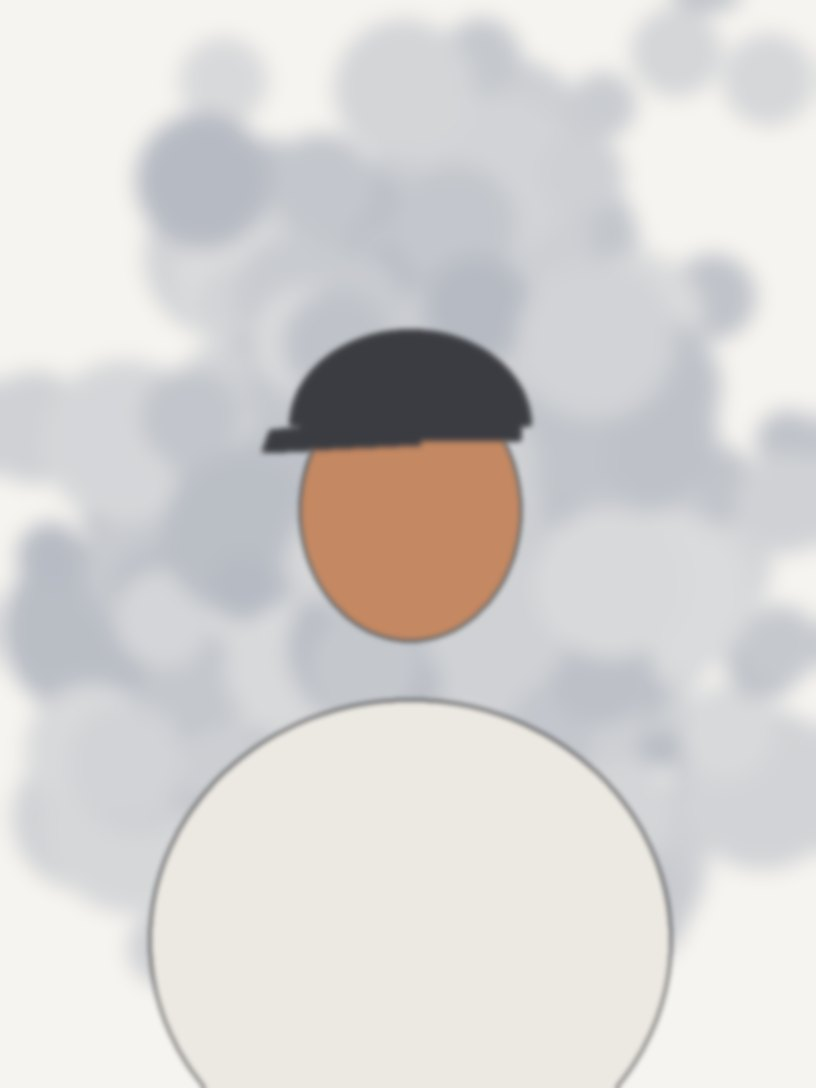
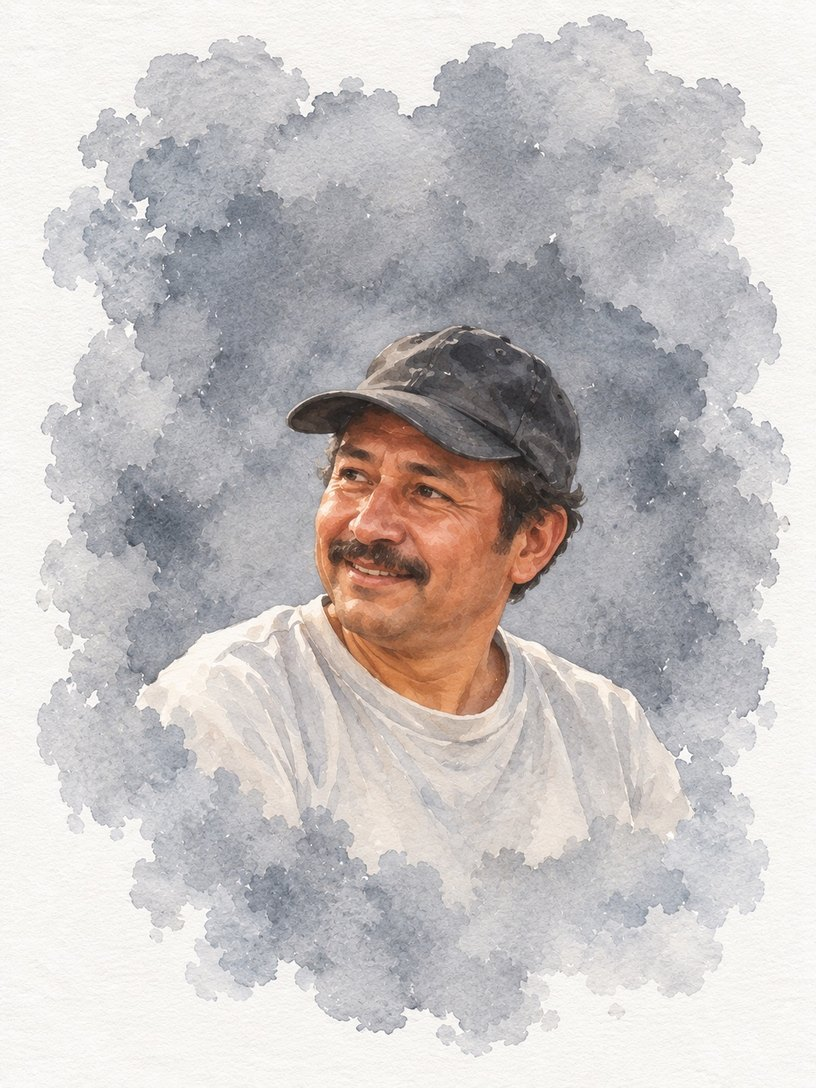
Papá o la Papa: real Dad portrait, subject/background painting, font picker
- Replace the stand-in with the real Dad watercolor portrait
- Paint background and subject separately: the background washes in
  quickly from a paler, shifted hue that settles into the final colours;
  the subject (traced soft masks for all three images) blooms in slower
- Subtler, faster washes; blurrier image edges by default
- Smaller, neutral grey progress blobs
- Font picker in the Adjust panel with ten handwriting faces plus Ugly
  Duck when installed; font-options.png compares them

Claude-Session: https://claude.ai/code/session_01GATDcCAs79GFnzRRRwYMir

diff --git a/papa/index.html b/papa/index.html
@@ -2,7 +2,7 @@
 <title>Papá o la Papa</title>
 <link rel="preconnect" href="https://fonts.googleapis.com">
 <link rel="preconnect" href="https://fonts.gstatic.com" crossorigin>
-<link rel="stylesheet" href="https://fonts.googleapis.com/css2?family=Kalam:wght@400;700&display=swap">
+<link rel="stylesheet" href="https://fonts.googleapis.com/css2?family=Kalam:wght@400;700&family=Gochi+Hand&family=Caveat+Brush&family=Gaegu:wght@400;700&family=Patrick+Hand&family=Short+Stack&family=Grandstander:wght@400;700&family=Gamja+Flower&family=Darumadrop+One&family=Sniglet:wght@400;800&display=swap">
 <style>
   @font-face {
     font-family: "Ugly Duck";
@@ -19,8 +19,8 @@
     --surround: #e9e4de;       /* around the phone on wide screens */
     --ink: #2b1a10;            /* hand-drawn strokes, title */
     --ink-soft: #7a6c61;       /* captions */
-    --seg: #dcd8d3;            /* progress blob, upcoming */
-    --seg-now: #9b958f;        /* progress blob, current */
+    --seg: #dadada;            /* progress blob, upcoming */
+    --seg-now: #8c8c8c;        /* progress blob, current */
     --wash: #d9d9d9;           /* empty frame placeholder */
     --mic-fill: #6d97a7;       /* mic capsule */
     --pad: rgb(176 210 234 / 0.5);   /* voice pad: a light blue wash */
@@ -31,7 +31,10 @@
     --panel-ink: #3a2c22;
     --focus: #2b1a10;
 
-    --hand: "Ugly Duck", "Kalam", "Bradley Hand", "Segoe Print", "Comic Sans MS", cursive;
+    --hand-family: "Kalam";
+    --hand-bold: 700;
+    --hand-scale: 1;
+    --hand: var(--hand-family), "Kalam", "Bradley Hand", "Segoe Print", "Comic Sans MS", cursive;
     --ui: ui-sans-serif, -apple-system, BlinkMacSystemFont, "Segoe UI", system-ui, sans-serif;
 
     --ease-out: cubic-bezier(0.23, 1, 0.32, 1);
@@ -109,10 +112,10 @@
 
   .progress {
     position: absolute;
-    left: calc(90 * var(--u));
-    top: calc(80 * var(--u));
-    width: calc(290 * var(--u));
-    height: calc(17 * var(--u));
+    left: calc(96 * var(--u));
+    top: calc(83 * var(--u));
+    width: calc(280 * var(--u));
+    height: calc(12 * var(--u));
     display: flex;
     justify-content: space-between;
     align-items: center;
@@ -134,8 +137,8 @@
     margin: 0;
     text-align: center;
     font-family: var(--hand);
-    font-weight: 700;
-    font-size: calc(30 * var(--u));
+    font-weight: var(--hand-bold);
+    font-size: calc(30 * var(--hand-scale) * var(--u));
     line-height: 1.2;
     color: var(--ink);
     z-index: 3;
@@ -403,6 +406,25 @@
   .file-btn { display: inline-flex; align-items: center; gap: 6px; width: max-content; }
   .file-btn input { position: absolute; opacity: 0; width: 1px; height: 1px; pointer-events: none; }
   .note { margin: 0; color: var(--ink-soft); font-size: 12px; }
+  .fonts { display: grid; grid-template-columns: repeat(2, minmax(0, 1fr)); gap: 6px; }
+  .fonts button {
+    display: grid;
+    gap: 2px;
+    justify-items: start;
+    text-align: left;
+    padding: 8px 10px;
+    border: 1px solid var(--panel-line);
+    border-radius: 10px;
+    background: transparent;
+    color: var(--ink);
+    cursor: pointer;
+    min-width: 0;
+  }
+  .fonts button[aria-pressed="true"] { border-color: var(--ink); box-shadow: inset 0 0 0 1px var(--ink); }
+  .fonts button:disabled { opacity: 0.45; cursor: not-allowed; }
+  .fonts button:focus-visible { outline: 2px solid var(--focus); outline-offset: 2px; }
+  .fonts .sample { font-size: 26px; line-height: 1.15; color: var(--ink); }
+  .fonts .name { font: 500 11px/1.2 var(--ui); color: var(--ink-soft); overflow-wrap: anywhere; }
 
   @media (prefers-reduced-motion: reduce) {
     .voice, .mic, .waves, .dots, .panel { transition-duration: 1ms !important; }
@@ -506,6 +528,12 @@
   </section>
 
   <section class="group">
+    <h3>Font</h3>
+    <div class="fonts" id="fonts"></div>
+    <p class="note" id="fontNote">Tap one to try it on the screen.</p>
+  </section>
+
+  <section class="group">
     <h3>Paper</h3>
     <div class="row"><label for="toothSize">Tooth size</label><output for="toothSize"></output><input id="toothSize" type="range" min="0.5" max="2" step="0.01" value="1"></div>
     <div class="row"><label for="toothDepth">Tooth depth</label><output for="toothDepth"></output><input id="toothDepth" type="range" min="0" max="1" step="0.01" value="0.4"></div>
@@ -514,11 +542,11 @@
 
   <section class="group">
     <h3>Image</h3>
-    <div class="row"><label for="edgeFade">Edge fade</label><output for="edgeFade"></output><input id="edgeFade" type="range" min="0" max="0.35" step="0.005" value="0.16"></div>
-    <div class="row"><label for="edgeBlur">Edge blur</label><output for="edgeBlur"></output><input id="edgeBlur" type="range" min="0" max="1" step="0.01" value="0.75"></div>
+    <div class="row"><label for="edgeFade">Edge fade</label><output for="edgeFade"></output><input id="edgeFade" type="range" min="0" max="0.35" step="0.005" value="0.21"></div>
+    <div class="row"><label for="edgeBlur">Edge blur</label><output for="edgeBlur"></output><input id="edgeBlur" type="range" min="0" max="1" step="0.01" value="0.95"></div>
     <div class="row"><label for="softness">Overall softness</label><output for="softness"></output><input id="softness" type="range" min="0" max="1" step="0.01" value="0.15"></div>
-    <div class="row"><label for="wetEdges">Wet edges</label><output for="wetEdges"></output><input id="wetEdges" type="range" min="0" max="1" step="0.01" value="0.6"></div>
-    <div class="row"><label for="paintTime">Painting time</label><output for="paintTime"></output><input id="paintTime" type="range" min="1" max="7" step="0.1" value="3.6"></div>
+    <div class="row"><label for="wetEdges">Wet edges</label><output for="wetEdges"></output><input id="wetEdges" type="range" min="0" max="1" step="0.01" value="0.35"></div>
+    <div class="row"><label for="paintTime">Painting time</label><output for="paintTime"></output><input id="paintTime" type="range" min="1" max="7" step="0.1" value="3"></div>
   </section>
 
   <section class="group">
@@ -542,7 +570,7 @@
   const reduceMotion = matchMedia("(prefers-reduced-motion: reduce)").matches;
 
   /* ---------------- Settings (remembered per browser) ---------------- */
-  const KEY = "papa-settings-v2";
+  const KEY = "papa-settings-v3";
   const ids = ["toothSize", "toothDepth", "warmth", "edgeFade", "edgeBlur", "softness", "wetEdges", "paintTime"];
   let saved = {};
   try { saved = JSON.parse(localStorage.getItem(KEY) || "{}"); } catch (e) {}
@@ -589,11 +617,12 @@
   }
 
   /* ---------------- Watercolor painter (WebGL) ----------------
-     Each image is painted in four washes, light to dark, the way a
-     watercolorist works: a pale wash of the overall colour, a stronger
-     wash, the mid-tones, then the darks and detail. Every wash spreads
-     from its own spot with an irregular wet front, and pigment pools
-     along that front as it dries. */
+     The background and the subject are painted as separate passes, the
+     way a watercolorist leaves the figure white and washes around it.
+     Background: three quick washes spreading from the middle, starting in
+     a paler, shifted hue that settles into the picture's own colours.
+     Subject: three slower washes that bloom in patch by patch inside a
+     soft outline of the figure (assets/*-mask.png). */
   const canvas = $("#paint");
   const gl = canvas.getContext("webgl", { premultipliedAlpha: true, alpha: true, antialias: false });
   const TEX_W = 540, TEX_H = 720;
@@ -602,15 +631,31 @@
   const FRAG = `
     precision mediump float;
     varying vec2 v;
-    uniform sampler2D tSharp, tSoft, tWash, tNoise;
-    uniform vec4 uP;
-    uniform float uFade, uFeather, uEdgeBlur, uSoft, uWet, uSeed;
+    uniform sampler2D tSharp, tSoft, tWash, tNoise, tMask;
+    uniform vec3 uB, uS;
+    uniform float uHue, uFade, uFeather, uEdgeBlur, uSoft, uWet, uSeed;
+    const mat3 toYIQ = mat3(.299,.596,.211, .587,-.274,-.523, .114,-.322,.312);
+    const mat3 toRGB = mat3(1.,1.,1., .956,-.272,-1.106, .621,-.647,1.703);
     float n(vec2 p){ return texture2D(tNoise, p).r; }
     float fbm(vec2 p){ return n(p)*.5 + n(p*2.03+.17)*.3 + n(p*4.07+.31)*.2; }
-    float cover(float p, vec2 uv, vec2 c, float k, float off){
-      float f = length((uv-c)*vec2(1.,.78)) + (fbm(uv*k + off + uSeed) - .5)*.62;
-      float R = p*1.3 - .1;
-      return 1. - smoothstep(R - .07, R, f);
+    // background wash: spreads outward from a spot with a wobbly wet front
+    float spread(float p, vec2 uv, vec2 c, float k, float off){
+      float f = length((uv-c)*vec2(1.,.78)) + (fbm(uv*k + off + uSeed) - .5)*.6;
+      float R = p*1.35 - .12;
+      return 1. - smoothstep(R - .14, R, f);
+    }
+    // subject wash: blooms in patches rather than spreading from one spot
+    float bloom(float p, vec2 uv, float k, float off){
+      float f = fbm(uv*k + off + uSeed*.7);
+      float R = p*1.4 - .12;
+      return 1. - smoothstep(R - .3, R, f);
+    }
+    // the background's colour settling: hue turned and chroma reduced at first
+    vec3 settle(vec3 c){
+      vec3 y = toYIQ * c;
+      float h = atan(y.z, y.y) + (1. - uHue) * .75;
+      float ch = length(y.yz) * mix(.5, 1., uHue);
+      return toRGB * vec3(y.x + (1. - uHue)*.05, ch*cos(h), ch*sin(h));
     }
     float band(float c){ return c*(1.-c)*4.; }
     void main(){
@@ -618,44 +663,47 @@
       vec3 sharp = texture2D(tSharp, uv).rgb;
       vec3 soft  = texture2D(tSoft,  uv).rgb;
       vec3 wash  = texture2D(tWash,  uv).rgb;
+      float m    = texture2D(tMask,  uv).r;
 
       // Frame: irregular feathered edge, blurrier toward the rim
       float ed = min(min(uv.x, 1.-uv.x), min(uv.y, 1.-uv.y));
-      float en = (fbm(uv*1.6 + 3.1) - .5) * uFeather * 1.1;
+      float en = (fbm(uv*1.6 + 3.1) - .5) * uFeather * 1.2;
       float frameA = smoothstep(0., uFeather + .0001, ed + en);
-      float rim = (1. - smoothstep(0., uFeather*2.2 + .0001, ed + en)) * uEdgeBlur;
-
+      float rim = (1. - smoothstep(0., uFeather*2.6 + .0001, ed + en)) * uEdgeBlur;
       vec3 fin = mix(mix(sharp, soft, uSoft), wash, rim);
-      vec3 L0 = mix(wash, vec3(1.), .64);
-      vec3 L1 = mix(wash, vec3(1.), .3);
-      vec3 L2 = mix(soft, wash, rim);
-      vec3 L3 = fin;
 
-      float c0 = cover(uP.x, uv, vec2(.5,.52), 1.2, 0.);
-      float c1 = cover(uP.y, uv, vec2(.42,.42), 1.9, 1.7);
-      float c2 = cover(uP.z, uv, vec2(.58,.46), 2.6, 3.9);
-      float c3 = cover(uP.w, uv, vec2(.5,.4), 3.4, 6.1);
+      // three stages, each with a background colour and a subject colour
+      vec3 B0 = settle(mix(wash, vec3(1.), .55)), S0 = mix(soft, vec3(1.), .6);
+      vec3 B1 = settle(mix(wash, vec3(1.), .18)), S1 = mix(soft, vec3(1.), .22);
+      vec3 B2 = settle(fin),                      S2 = fin;
 
+      float b0 = spread(uB.x, uv, vec2(.5,.5), 1.2, 0.);
+      float b1 = spread(uB.y, uv, vec2(.44,.46), 1.9, 1.7);
+      float b2 = spread(uB.z, uv, vec2(.56,.5), 2.6, 3.9);
+      float s0 = bloom(uS.x, uv, 2.2, 5.3);
+      float s1 = bloom(uS.y, uv, 3.1, 7.1);
+      float s2 = bloom(uS.z, uv, 4.3, 9.7);
+
+      float k0 = b0*(1.-m) + s0*m, k1 = b1*(1.-m) + s1*m, k2 = b2*(1.-m) + s2*m;
       vec3 c = vec3(1.);
-      c = mix(c, L0, c0);
-      c = mix(c, L1, c1);
-      c = mix(c, L2, c2);
-      c = mix(c, L3, c3);
+      c = mix(c, mix(B0, S0, m), k0);
+      c = mix(c, mix(B1, S1, m), k1);
+      c = mix(c, mix(B2, S2, m), k2);
 
-      // pigment pooling along each drying front, tinted by its own wash
-      c *= mix(vec3(1.), L0*L0, band(c0)*uWet*.55);
-      c *= mix(vec3(1.), L1*L1, band(c1)*uWet*.5);
-      c *= mix(vec3(1.), L2,    band(c2)*uWet*.45);
-      c *= mix(vec3(1.), L3,    band(c3)*uWet*.35);
+      // a little pigment pooling along the background's drying fronts
+      float bg = 1. - m;
+      c *= mix(vec3(1.), B0, band(b0)*uWet*.35*bg);
+      c *= mix(vec3(1.), B1, band(b1)*uWet*.3*bg);
 
-      // granulation: pigment settling into the paper's tooth
+      // granulation: pigment settling into the paper's tooth while wet
       float g = n(uv*5.3 + uSeed*.37);
-      c *= 1. - (g - .5) * .09 * max(c0 - c3*.6, 0.);
+      c *= 1. - (g - .5) * .06 * max(k0 - k2*.7, 0.);
 
-      float a = frameA * uFade * max(max(c0, c1), max(c2, c3));
+      float a = frameA * uFade * max(max(k0, k1), k2);
       gl_FragColor = vec4(c * a, a);
     }`;
 
+  const TEX_UNITS = ["tSharp", "tSoft", "tWash", "tNoise", "tMask"];
   let prog, uni = {}, tex = {};
   const glOk = !!gl && (() => {
     const sh = (type, src) => { const s = gl.createShader(type); gl.shaderSource(s, src); gl.compileShader(s); if (!gl.getShaderParameter(s, gl.COMPILE_STATUS)) { console.warn(gl.getShaderInfoLog(s)); return null; } return s; };
@@ -667,13 +715,13 @@
     const buf = gl.createBuffer(); gl.bindBuffer(gl.ARRAY_BUFFER, buf);
     gl.bufferData(gl.ARRAY_BUFFER, new Float32Array([-1,-1, 1,-1, -1,1, 1,1]), gl.STATIC_DRAW);
     const loc = gl.getAttribLocation(prog, "p"); gl.enableVertexAttribArray(loc); gl.vertexAttribPointer(loc, 2, gl.FLOAT, false, 0, 0);
-    ["tSharp","tSoft","tWash","tNoise","uP","uFade","uFeather","uEdgeBlur","uSoft","uWet","uSeed"].forEach((k) => uni[k] = gl.getUniformLocation(prog, k));
-    ["tSharp","tSoft","tWash","tNoise"].forEach((k, i) => { gl.uniform1i(uni[k], i); tex[k] = gl.createTexture(); });
+    ["tSharp","tSoft","tWash","tNoise","tMask","uB","uS","uHue","uFade","uFeather","uEdgeBlur","uSoft","uWet","uSeed"].forEach((k) => uni[k] = gl.getUniformLocation(prog, k));
+    TEX_UNITS.forEach((k, i) => { gl.uniform1i(uni[k], i); tex[k] = gl.createTexture(); });
     return true;
   })();
 
   function upload(name, source, repeat) {
-    const unit = ["tSharp","tSoft","tWash","tNoise"].indexOf(name);
+    const unit = TEX_UNITS.indexOf(name);
     gl.activeTexture(gl.TEXTURE0 + unit);
     gl.bindTexture(gl.TEXTURE_2D, tex[name]);
     gl.pixelStorei(gl.UNPACK_PREMULTIPLY_ALPHA_WEBGL, false);
@@ -720,16 +768,28 @@
   }
 
   const sources = { pope: "assets/pope.jpg", potato: "assets/potato.jpg", dad: "assets/dad.jpg" };
+  const masks = { pope: "assets/pope-mask.png", potato: "assets/potato-mask.png", dad: "assets/dad-mask.png" };
+  /* Soft oval outline, for an uploaded photo that has no traced mask */
+  function ovalMask() {
+    const c = document.createElement("canvas"); c.width = 272; c.height = 363;
+    const x = c.getContext("2d"); x.fillStyle = "#000"; x.fillRect(0, 0, 272, 363);
+    if (canFilter) x.filter = "blur(14px)";
+    x.fillStyle = "#fff"; x.beginPath(); x.ellipse(136, 215, 92, 130, 0, 0, 7); x.fill();
+    return c;
+  }
   const cache = {};
   function loadImage(src) {
     return new Promise((res, rej) => { const i = new Image(); i.decoding = "async"; i.onload = () => res(i); i.onerror = rej; i.src = src; });
   }
   async function layersFor(key) {
-    if (!cache[key]) cache[key] = loadImage(sources[key]).then((img) => ({ sharp: layer(img, 0), soft: layer(img, 3), wash: layer(img, 26) }));
+    if (!cache[key]) cache[key] = Promise.all([
+      loadImage(sources[key]),
+      masks[key] ? loadImage(masks[key]).catch(() => ovalMask()) : Promise.resolve(ovalMask()),
+    ]).then(([img, mask]) => ({ sharp: layer(img, 0), soft: layer(img, 3), wash: layer(img, 26), mask }));
     return cache[key];
   }
 
-  const state = { p: [0, 0, 0, 0], fade: 1, seed: Math.random() * 10, current: null };
+  const state = { b: [0, 0, 0], s: [0, 0, 0], hue: 0, fade: 1, seed: Math.random() * 10, current: null };
   function sizeCanvas() {
     const r = canvas.getBoundingClientRect(), dpr = Math.min(devicePixelRatio || 1, 2);
     canvas.width = Math.max(2, Math.round(r.width * dpr)); canvas.height = Math.max(2, Math.round(r.height * dpr));
@@ -740,7 +800,9 @@
     gl.viewport(0, 0, canvas.width, canvas.height);
     gl.clearColor(0, 0, 0, 0); gl.clear(gl.COLOR_BUFFER_BIT);
     if (!state.current) return;
-    gl.uniform4f(uni.uP, ...state.p);
+    gl.uniform3f(uni.uB, ...state.b);
+    gl.uniform3f(uni.uS, ...state.s);
+    gl.uniform1f(uni.uHue, state.hue);
     gl.uniform1f(uni.uFade, state.fade);
     gl.uniform1f(uni.uFeather, settings.edgeFade);
     gl.uniform1f(uni.uEdgeBlur, settings.edgeBlur);
@@ -777,13 +839,17 @@
       await tween(420, (t) => { state.fade = from * (1 - easeInOut(t)); });
       if (token !== paintToken) return;
     }
-    upload("tSharp", layers.sharp); upload("tSoft", layers.soft); upload("tWash", layers.wash);
-    state.current = key; state.fade = 1; state.p = [0, 0, 0, 0]; state.seed = Math.random() * 10;
+    upload("tSharp", layers.sharp); upload("tSoft", layers.soft); upload("tWash", layers.wash); upload("tMask", layers.mask);
+    state.current = key; state.fade = 1; state.b = [0, 0, 0]; state.s = [0, 0, 0]; state.hue = 0; state.seed = Math.random() * 10;
     frame.setAttribute("data-painted", "");
     canvas.setAttribute("aria-label", { pope: "Watercolor of the Pope", potato: "Watercolor of a potato", dad: "Watercolor portrait of Dad" }[key]);
-    const starts = [0, 0.2, 0.4, 0.58], len = 0.42;
+    // Background: quick washes, colour settling to the final hue.
+    // Subject: starts a beat later and comes in more slowly.
+    const stage = (t, start, len) => easeOut(Math.min(1, Math.max(0, (t - start) / len)));
     await tween(settings.paintTime * 1000, (t) => {
-      state.p = starts.map((s) => easeOut(Math.min(1, Math.max(0, (t - s) / len))));
+      state.b = [stage(t, 0, 0.36), stage(t, 0.08, 0.36), stage(t, 0.2, 0.4)];
+      state.hue = easeInOut(Math.min(1, t / 0.68));
+      state.s = [stage(t, 0.18, 0.5), stage(t, 0.32, 0.52), stage(t, 0.46, 0.54)];
     });
   }
 
@@ -984,10 +1050,62 @@
     const f = e.target.files && e.target.files[0];
     if (!f) return;
     sources.dad = URL.createObjectURL(f);
+    masks.dad = null; // no traced outline for a new photo: use a soft oval
     delete cache.dad;
     $("#dadNote").textContent = `Using “${f.name}” in this browser. To keep it, save it as assets/dad.jpg.`;
     simulate("papá");
   });
+
+  /* ---------------- Font picker ----------------
+     bold: the weight used for the "Dad" title; scale evens out the
+     very different sizes these faces draw at. */
+  const FONTS = [
+    { family: "Ugly Duck", bold: 400, scale: 1 },
+    { family: "Kalam", bold: 700, scale: 1 },
+    { family: "Gochi Hand", bold: 400, scale: 1.05 },
+    { family: "Caveat Brush", bold: 400, scale: 1.2 },
+    { family: "Gaegu", bold: 700, scale: 1.2 },
+    { family: "Patrick Hand", bold: 400, scale: 1.08 },
+    { family: "Short Stack", bold: 400, scale: 0.85 },
+    { family: "Grandstander", bold: 700, scale: 0.9 },
+    { family: "Gamja Flower", bold: 400, scale: 1.15 },
+    { family: "Darumadrop One", bold: 400, scale: 1 },
+    { family: "Sniglet", bold: 800, scale: 0.92 },
+  ];
+  const fontsEl = $("#fonts"), rootStyle = document.documentElement.style;
+  function setFont(f) {
+    rootStyle.setProperty("--hand-family", `"${f.family}"`);
+    rootStyle.setProperty("--hand-bold", f.bold);
+    rootStyle.setProperty("--hand-scale", f.scale);
+    fontsEl.querySelectorAll("button").forEach((b) => b.setAttribute("aria-pressed", String(b.dataset.family === f.family)));
+    try { localStorage.setItem("papa-font", f.family); } catch (e) {}
+  }
+  FONTS.forEach((f) => {
+    const b = document.createElement("button");
+    b.type = "button"; b.dataset.family = f.family; b.setAttribute("aria-pressed", "false");
+    const sample = document.createElement("span"); sample.className = "sample"; sample.textContent = "Dad";
+    sample.style.fontFamily = `"${f.family}", var(--ui)`; sample.style.fontWeight = f.bold;
+    const name = document.createElement("span"); name.className = "name"; name.textContent = f.family;
+    b.append(sample, name);
+    b.addEventListener("click", () => setFont(f));
+    fontsEl.append(b);
+  });
+  let savedFont = null;
+  try { savedFont = localStorage.getItem("papa-font"); } catch (e) {}
+  setFont(FONTS.find((f) => f.family === savedFont) || FONTS[1]);
+  // Ugly Duck only works when it's installed or added as assets/fonts/UglyDuck.woff2
+  const ugly = fontsEl.querySelector('[data-family="Ugly Duck"]');
+  ugly.disabled = true;
+  ugly.querySelector(".name").textContent = "Ugly Duck (checking…)";
+  document.fonts.load('16px "Ugly Duck"').then((found) => {
+    if (found.some((f) => f.status === "loaded")) {
+      ugly.disabled = false;
+      ugly.querySelector(".name").textContent = "Ugly Duck";
+      if (!savedFont) setFont(FONTS[0]);
+    } else {
+      ugly.querySelector(".name").textContent = "Ugly Duck (not installed)";
+    }
+  }).catch(() => { ugly.querySelector(".name").textContent = "Ugly Duck (not installed)"; });
 
   /* ---------------- Panel toggle (narrow screens) ---------------- */
   const panel = $("#panel"), toggle = $("#adjustToggle");
